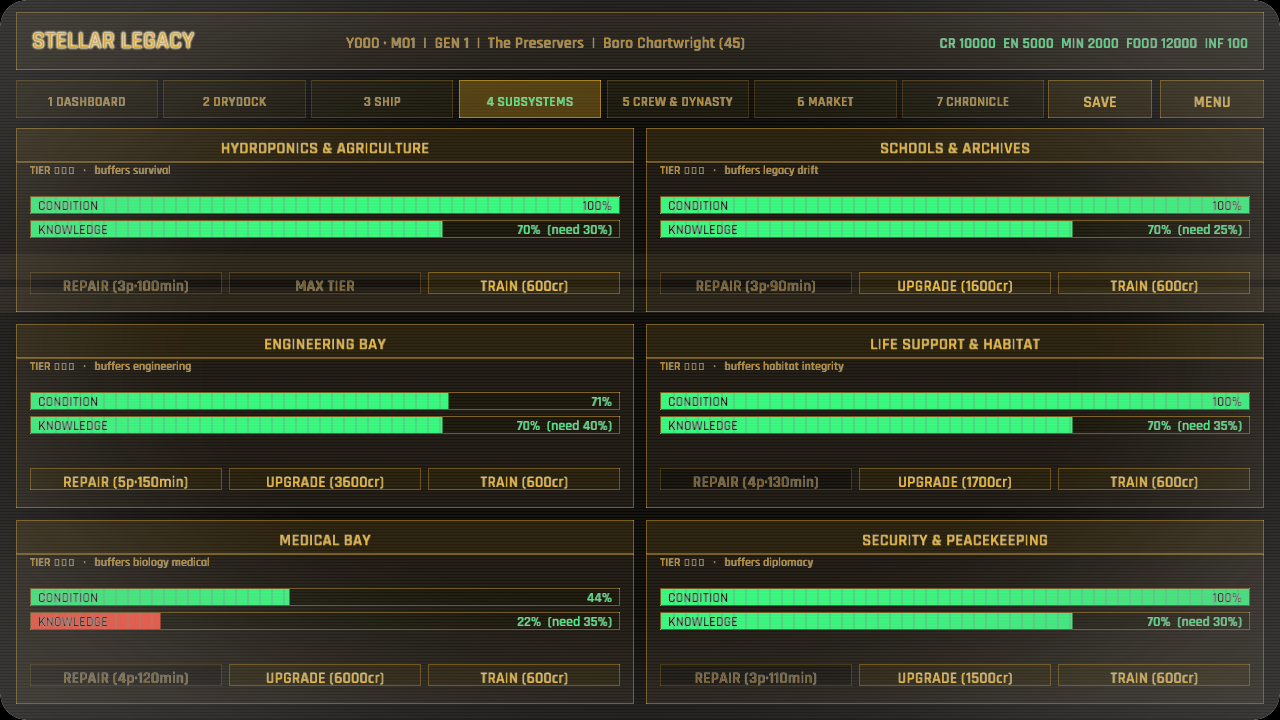
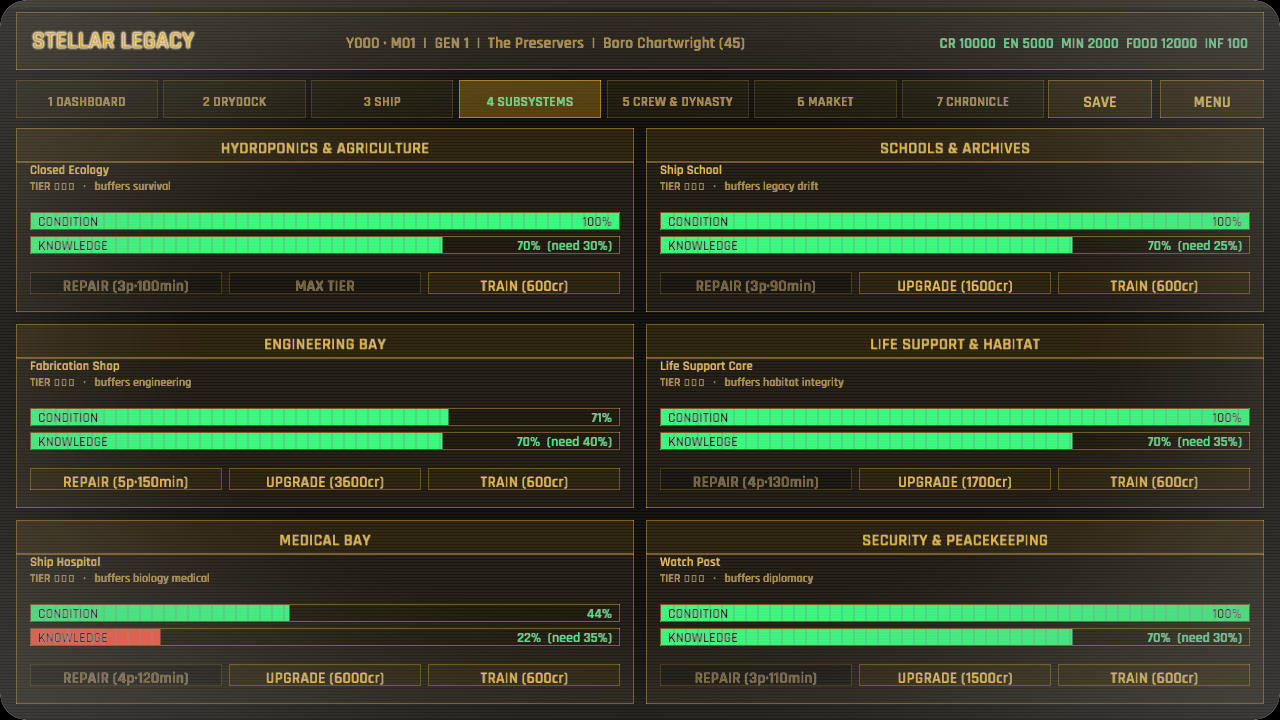
Each ship subsystem now names the version it is running, from Sickbay to Gene-Clinic (GDD 5.1)
Phase 2a of the ship-upgrade expansion: the anonymous "TIER ●○○" ladder
becomes a ladder of named versions.

- Every subsystem fitting gains an id, a name, an optional description, and
  an Acquisition (default Purchasable) — the same flag the mission-reward
  ship parts use, so a later pass can hang a mission-only top version off it.
  Each subsystem also names its baseline (tier 0) fitting.
- The internal `tiers` field and all its balance math (buffering, decay,
  food/education scaling, the schematic's tier pips) are untouched — the
  "level" is still the tier index; only identity is added on top.
- Subsystems screen now prints the fitted version's name above the pips
  (Closed Ecology, Fabrication Shop, Ship Hospital, Watch Post, ...).
- Validation: baseline + every fitting must be named, fitting ids unique
  within a subsystem (a mission's grant_fitting will address them by id).

Next: 2b — surface these versions as PURCHASE cards on the Ship screen via a
LOADOUT/MODULES toggle; 2c — mission-reward fittings + grant plumbing.

Changed region(s): [[0.0, 0.4889, 1.0, 0.6417], [0.0, 0.7639, 1.0, 0.9167], [0.0, 0.2139, 1.0, 0.3667]]

diff --git a/src/data/subsystems.rs b/src/data/subsystems.rs
@@ -2,11 +2,30 @@
 //! weapon, each buffering one event family through upgrade tiers. Identities and
 //! balance live in `assets/subsystems.json`; no subsystem constants in Rust.
 
-use crate::data::ResourceDelta;
+use crate::data::{Acquisition, ResourceDelta};
 use serde::{Deserialize, Serialize};
 
+/// One named *version* of a subsystem — a distinct fitting a module can be built
+/// up to (W5; content-depth "different versions" pass). The list is a linear
+/// ladder: `tiers[i]` is the fitting reached at tier `i + 1`, above the module's
+/// baseline (tier 0). Each carries its own identity and how it is obtained, so a
+/// module can offer a bought upgrade and, above it, one only a mission yields.
 #[derive(Debug, Clone, Serialize, Deserialize)]
 pub struct SubsystemTier {
+    /// Stable id for this fitting (unique within its subsystem). Referenced by a
+    /// mission's `grant_fitting` when the fitting is a mission reward.
+    pub id: String,
+    /// The version's proper name, e.g. "Aeroponics Suite" — shown on the cards.
+    pub name: String,
+    /// A one-line description of what this version is. Optional; empty falls back
+    /// to the subsystem's own description.
+    #[serde(default)]
+    pub description: String,
+    /// How this version is obtained. `MissionReward` versions are never sold —
+    /// they unlock only when a voyage grants them (`grant_fitting`). Defaults to
+    /// `Purchasable` so existing ladders are unchanged.
+    #[serde(default)]
+    pub acquisition: Acquisition,
     /// Drydock cost to reach this tier from the one below (authored positive;
     /// negated on spend).
     pub cost: ResourceDelta,
@@ -38,6 +57,13 @@ pub struct SubsystemDef {
     /// Tier 0 is the ship's baseline (no entry here); `tiers[i]` is the upgrade
     /// to reach tier `i + 1`.
     pub tiers: Vec<SubsystemTier>,
+    /// The name of the baseline (tier 0) fitting the ship starts with, e.g.
+    /// "Hydroponics Bay" — the first rung of the version ladder.
+    pub baseline_name: String,
+    /// One-line description of the baseline fitting; empty falls back to
+    /// `description`.
+    #[serde(default)]
+    pub baseline_description: String,
     pub description: String,
 }
 
@@ -49,6 +75,20 @@ impl SubsystemDef {
         } else {
             self.tiers.get(tier as usize - 1)
         }
+    }
+
+    /// The proper name of the version currently fitted at `tier` (the baseline at
+    /// tier 0, else the named upgrade fitting).
+    pub fn fitting_name(&self, tier: u32) -> &str {
+        match self.tier_stats(tier) {
+            Some(fitting) => &fitting.name,
+            None => &self.baseline_name,
+        }
+    }
+
+    /// The next fitting up the ladder from `tier`, or `None` at the top tier.
+    pub fn next_fitting(&self, tier: u32) -> Option<&SubsystemTier> {
+        self.tiers.get(tier as usize)
     }
 }
 

diff --git a/src/data.rs b/src/data.rs
@@ -2466,6 +2466,14 @@ mod tests {
                 3,
                 "subsystem '{id}' has three upgrade tiers"
             );
+            // Named-version pass: the baseline and every fitting carry a name, and
+            // fitting ids are unique within the subsystem (a mission's
+            // `grant_fitting` addresses them by id).
+            assert!(
+                !sub.baseline_name.trim().is_empty(),
+                "subsystem '{id}' has no baseline_name"
+            );
+            let mut fitting_ids = std::collections::HashSet::new();
             for tier in &sub.tiers {
                 assert!(
                     tier.cost.credits > 0,
@@ -2477,6 +2485,15 @@ mod tests {
                 assert!(
                     !tier.flavor.trim().is_empty(),
                     "subsystem '{id}' has a tier with no upgrade flavor"
+                );
+                assert!(
+                    !tier.name.trim().is_empty(),
+                    "subsystem '{id}' has a fitting with no name"
+                );
+                assert!(
+                    fitting_ids.insert(tier.id.as_str()),
+                    "subsystem '{id}' has a duplicate fitting id '{}'",
+                    tier.id
                 );
             }
             // Content-depth subsystem coverage: every subsystem has at least one

diff --git a/src/ui/subsystems.rs b/src/ui/subsystems.rs
@@ -45,7 +45,7 @@ fn draw_card(
     let content = rect.inset(14.0);
     let mut y = content.y + 32.0;
 
-    // Tier pips + the event family this module buffers.
+    // The version currently fitted, its tier pips, and the family it buffers.
     let pips: String = (1..=3)
         .map(|t| if state.tier >= t { '●' } else { '○' })
         .collect();
@@ -54,6 +54,13 @@ fn draw_card(
     } else {
         def.buffers_family.replace('_', " ")
     };
+    draw_ui_text_ex(
+        def.fitting_name(state.tier),
+        content.x,
+        y,
+        TextStyle::new(13.0, term::primary()).params(),
+    );
+    y += 16.0;
     draw_ui_text_ex(
         &format!("TIER {pips}   ·   buffers {family}"),
         content.x,
@@ -114,8 +121,8 @@ fn draw_card(
         actions.push(UiAction::RepairSubsystem(id.to_owned()));
     }
 
-    // Upgrade: port-only, pays the next tier's cost, caps at tier 3.
-    let next = def.tiers.get(state.tier as usize);
+    // Upgrade: port-only, pays the next fitting's cost, caps at the top version.
+    let next = def.next_fitting(state.tier);
     let upgrade_label = match next {
         Some(t) if in_port => format!("UPGRADE ({}cr)", t.cost.credits),
         Some(_) => "UPGRADE · PORT".to_owned(),
